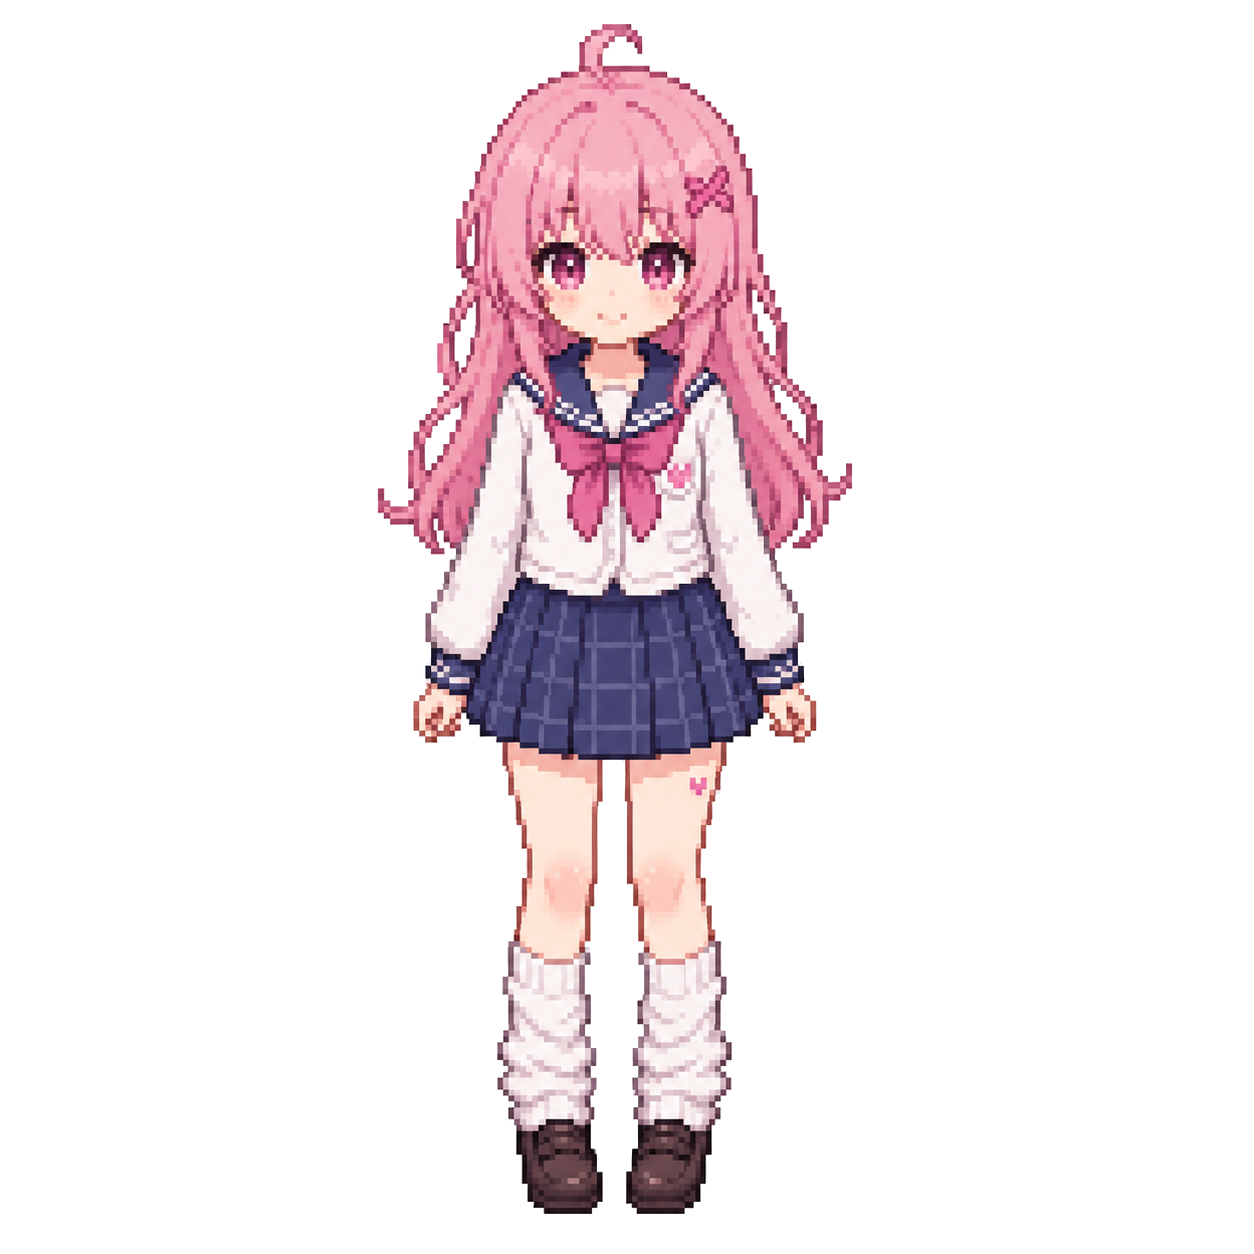
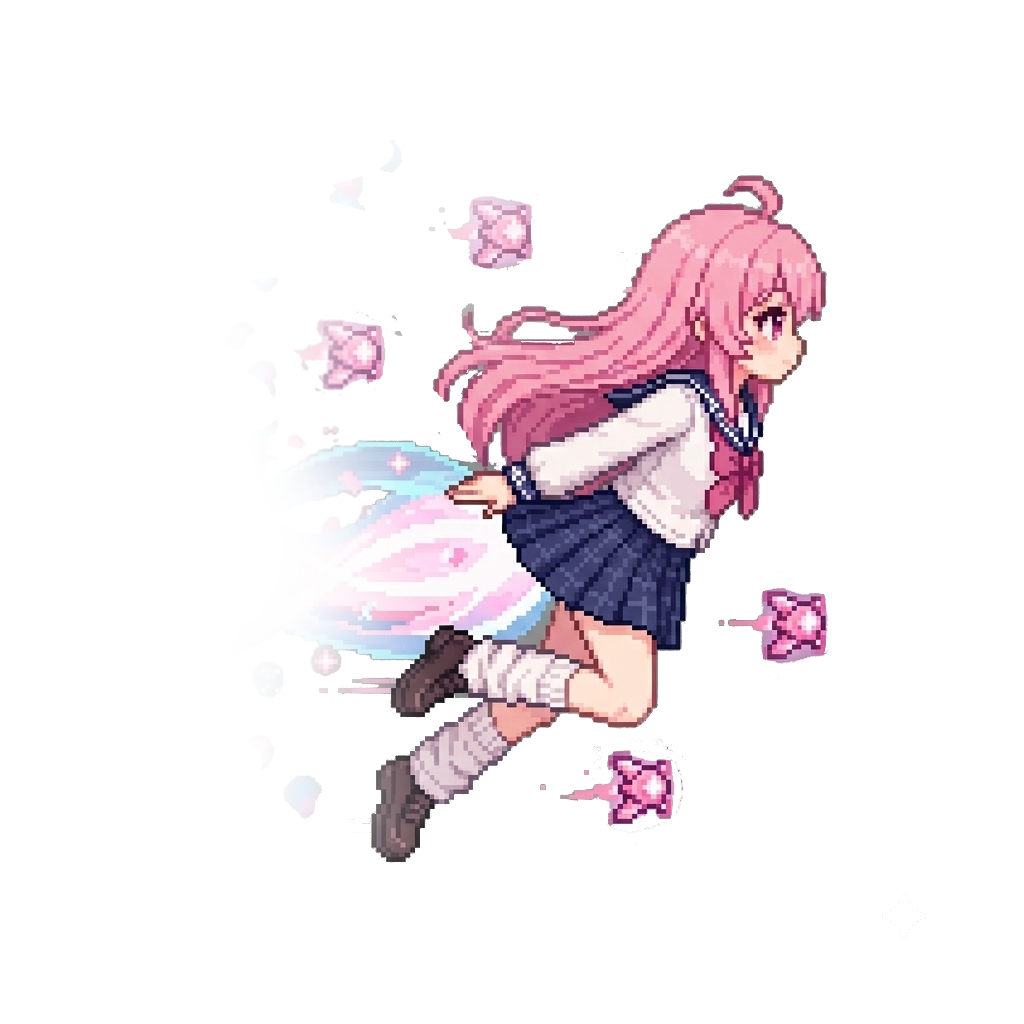
enemy

Changed region(s): [[0.2812, 0.0, 0.8125, 0.9688], [0.7188, 0.5625, 0.8125, 0.6562], [0.2812, 0.75, 0.3125, 0.7812]]

diff --git a/game_Enemy.cpp b/game_Enemy.cpp
@@ -1,0 +1,93 @@
+#include "game_Enemy.h"
+#include <DirectXMath.h>
+#include "direct3d.h"
+#include "sprite.h"
+#include "textureManager.h"
+
+
+static int g_TextureId_Enemy{ TEXTURE_INVALID_ID };
+
+static int g_Enemy_Count = 0;
+
+//敌人出现计时
+float EnemySpawnTimer{ 0 };
+float EnemySpawnTime{ 5.0f };
+
+
+struct Enemy
+{
+	float position_x, position_y;
+};
+
+static constexpr int Enemy_MAX{ 128 };
+static Enemy g_Enemies[Enemy_MAX]{};
+
+static constexpr float Enemy_WIDTH{ 192.0f };
+static constexpr float Enemy_HEIGHT{ 192.0f };
+
+
+//敌人移动速度
+static float EnemySpeed{ 0 };
+
+//屏幕边缘 敌人移动最大值
+static constexpr float Enemy_Move_LIMIT{ 0 - Enemy_WIDTH };
+
+
+
+void GameEnemy_Initialize()
+{
+	g_TextureId_Enemy = Texture_Load(L"enemy.png");
+	EnemySpeed = 100.0f;
+	g_Enemy_Count = 0;
+}
+
+void GameEnemy_Finalize()
+{
+
+
+}
+
+void GameEnemy_Update(float delta_time)
+{
+	EnemySpawnTimer += delta_time;
+	if (EnemySpawnTimer >= EnemySpawnTime) {
+		EnemySpawnTimer = 0;
+		GameEnemy_Create(SCREEN_WIDTH, rand() % (SCREEN_HEIGHT - (int)Enemy_HEIGHT));
+	}
+
+	//敌人一直往右走
+	for (int i = 0; i < g_Enemy_Count; ++i) {
+		g_Enemies[i].position_x -= EnemySpeed * delta_time;
+	}
+	//出画面了回收 destory
+	for (int i = g_Enemy_Count - 1; i >= 0; --i) {
+		if (g_Enemies[i].position_x <= Enemy_Move_LIMIT) {
+			g_Enemies[i] = g_Enemies[--g_Enemy_Count];
+		}
+	}
+}
+
+void GameEnemy_Draw()
+{
+	for (int i = 0; i < g_Enemy_Count; ++i) {
+		Sprite_Draw(
+			g_TextureId_Enemy,
+			g_Enemies[i].position_x,
+			g_Enemies[i].position_y,
+			Enemy_WIDTH,
+			Enemy_HEIGHT
+		);
+	}
+}
+
+void GameEnemy_Create(float x, float y)
+{
+	if (g_Enemy_Count >= Enemy_MAX) {
+		return;
+	}
+
+	Enemy& r = g_Enemies[g_Enemy_Count];
+	r.position_x = x;
+	r.position_y = y;
+	++g_Enemy_Count;
+}

diff --git a/game_Enemy.h b/game_Enemy.h
@@ -1,0 +1,19 @@
+#pragma once
+
+#ifndef GAME_ENEMY_H
+#define GAME_ENEMY_H
+
+#include <DirectXMath.h>
+
+
+void GameEnemy_Initialize();
+void GameEnemy_Finalize();
+
+
+void GameEnemy_Update(float delta_time);
+void GameEnemy_Draw();
+
+void GameEnemy_Create(float x, float y);
+
+
+#endif // GAME_ENEMY_H

diff --git a/game.cpp b/game.cpp
@@ -1,6 +1,7 @@
 #include "game.h"
 #include "game_player.h"
 #include"game_Player_Bullet.h"
+#include"game_Enemy.h"
 
 #include "direct3d.h"
 #include "sprite.h"
@@ -10,22 +11,30 @@ void Game_Initialize()
 {
 	GamePlayer_Initialize(SCREEN_WIDTH/2-64, SCREEN_HEIGHT/2-64);
 	GamePlayerBullet_Initialize();
+	GameEnemy_Initialize();
 }
 
 void Game_Finalize()
 {
 	GamePlayer_Finalize();
 	GamePlayerBullet_Finalize();
+	GameEnemy_Finalize();
 }
 
 void Game_Update(float delta_time)
 {
 	GamePlayer_Update(delta_time);
 	GamePlayerBullet_Update(delta_time);
+	GameEnemy_Update(delta_time);
 }
 
 void Game_Draw()
 {
-	GamePlayer_Draw();
+	//后画的在上面
+
+	GameEnemy_Draw();
+
 	GamePlayerBullet_Draw();
+
+	GamePlayer_Draw();
 }

diff --git a/game_player.cpp b/game_player.cpp
@@ -22,7 +22,7 @@ void GamePlayer_Initialize(float startX, float startY)
 	g_TextureId_Player = Texture_Load(L"Player.png");
 	g_PlayerPosition = { startX, startY };
 	g_Player_MoveSpeed = 500.0f;
-	g_Player_TextureSize = 128.0f;
+	g_Player_TextureSize = 160.0f;
 	ShortSpeed = 0.5f;
 }
 
@@ -100,7 +100,7 @@ void GamePlayer_Update(float delta_time)
 	if (InputKeyboard_IsRepeat(KK_SPACE,1.0f,ShortSpeed)){
 		GamePlayerBullet_Create(
 			g_PlayerPosition.x+ g_Player_TextureSize * 0.5f,
-			g_PlayerPosition.y+ g_Player_TextureSize * 0.5f);
+			g_PlayerPosition.y+ g_Player_TextureSize * 0.2f);
 	}
 
 }